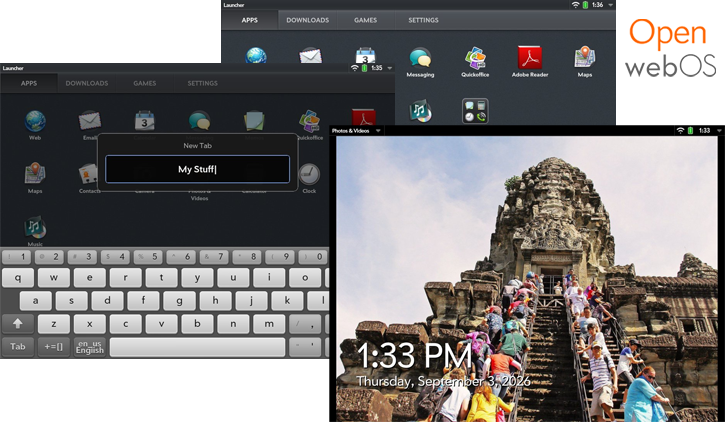
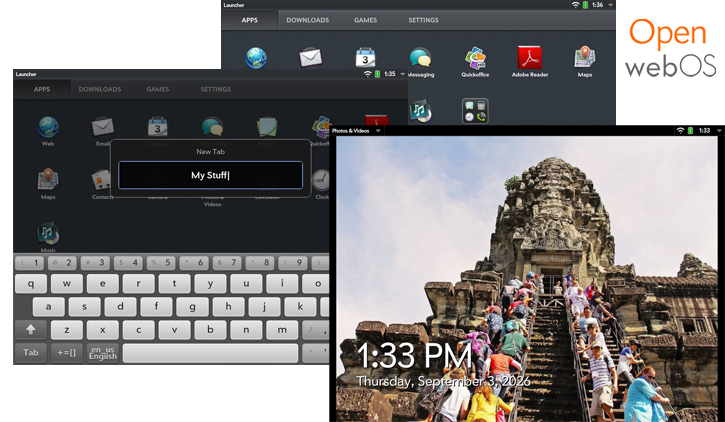
fixes

diff --git a/assets/landing-modern.css b/assets/landing-modern.css
@@ -30,7 +30,7 @@ a {
 }
 .hero {
     width: 700px;
-    margin-left: -10px;
+    margin-left: 15px;
 }
 #billboard-text,
 .hero {
